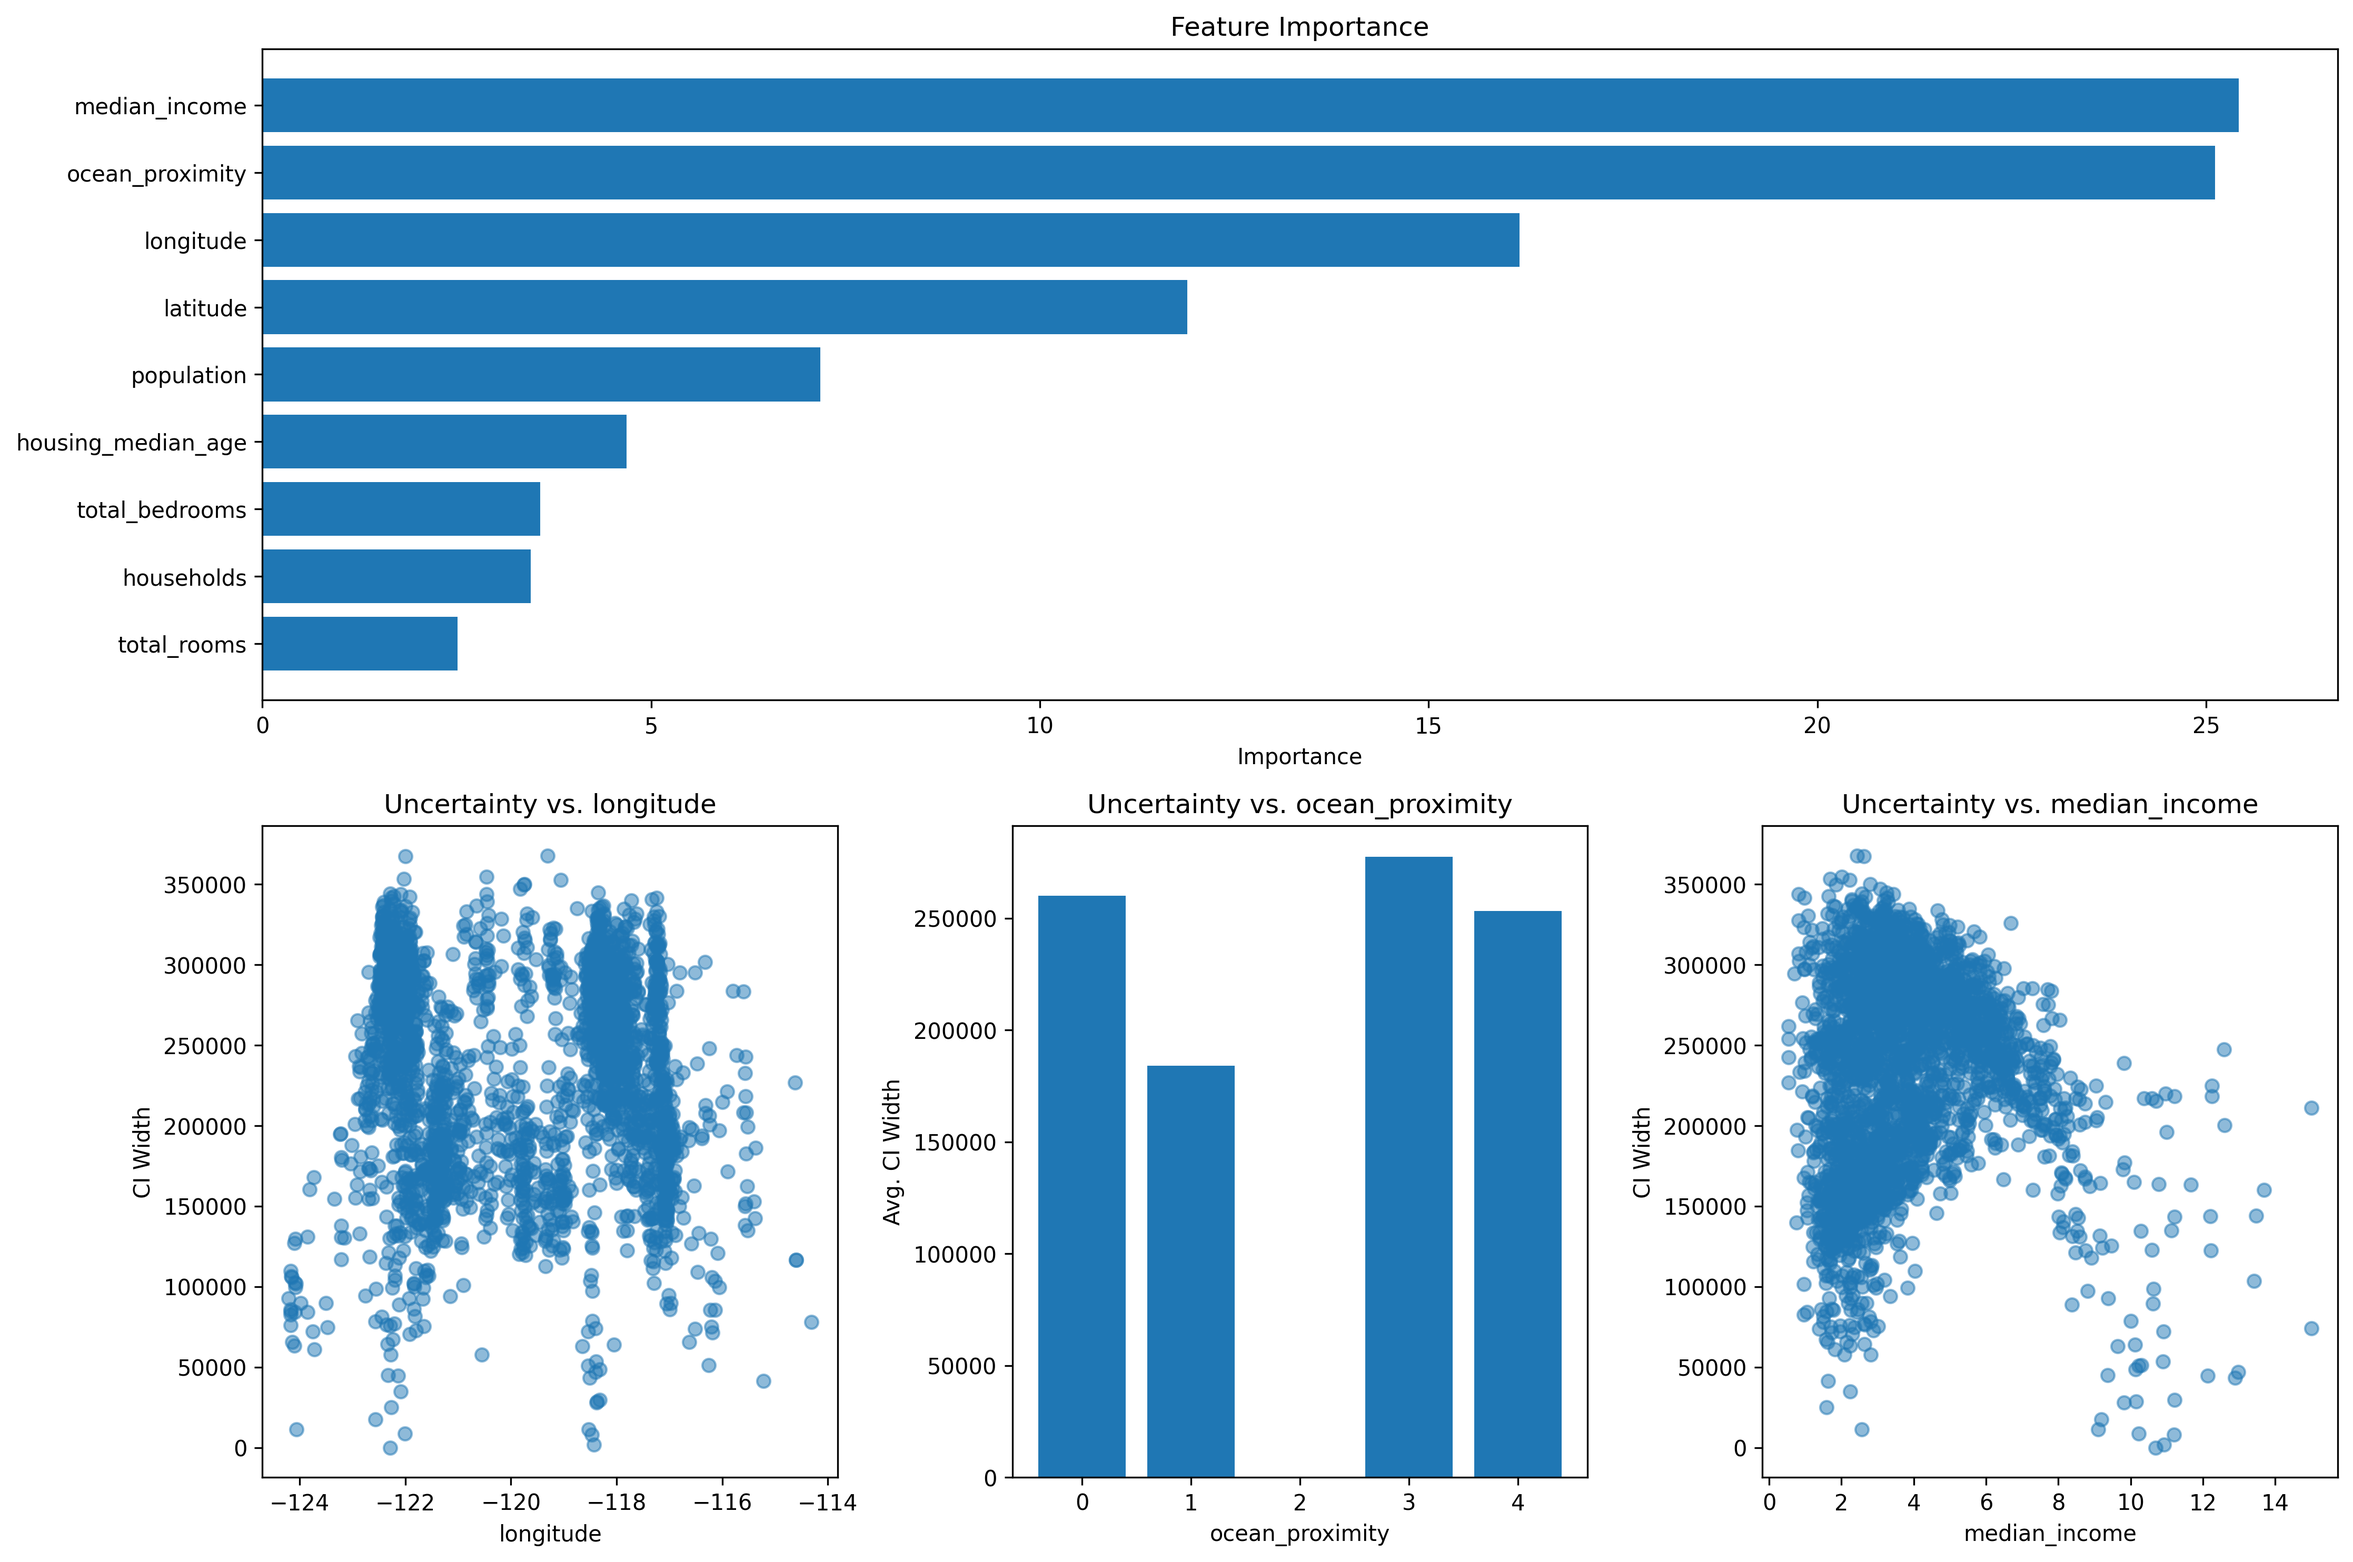
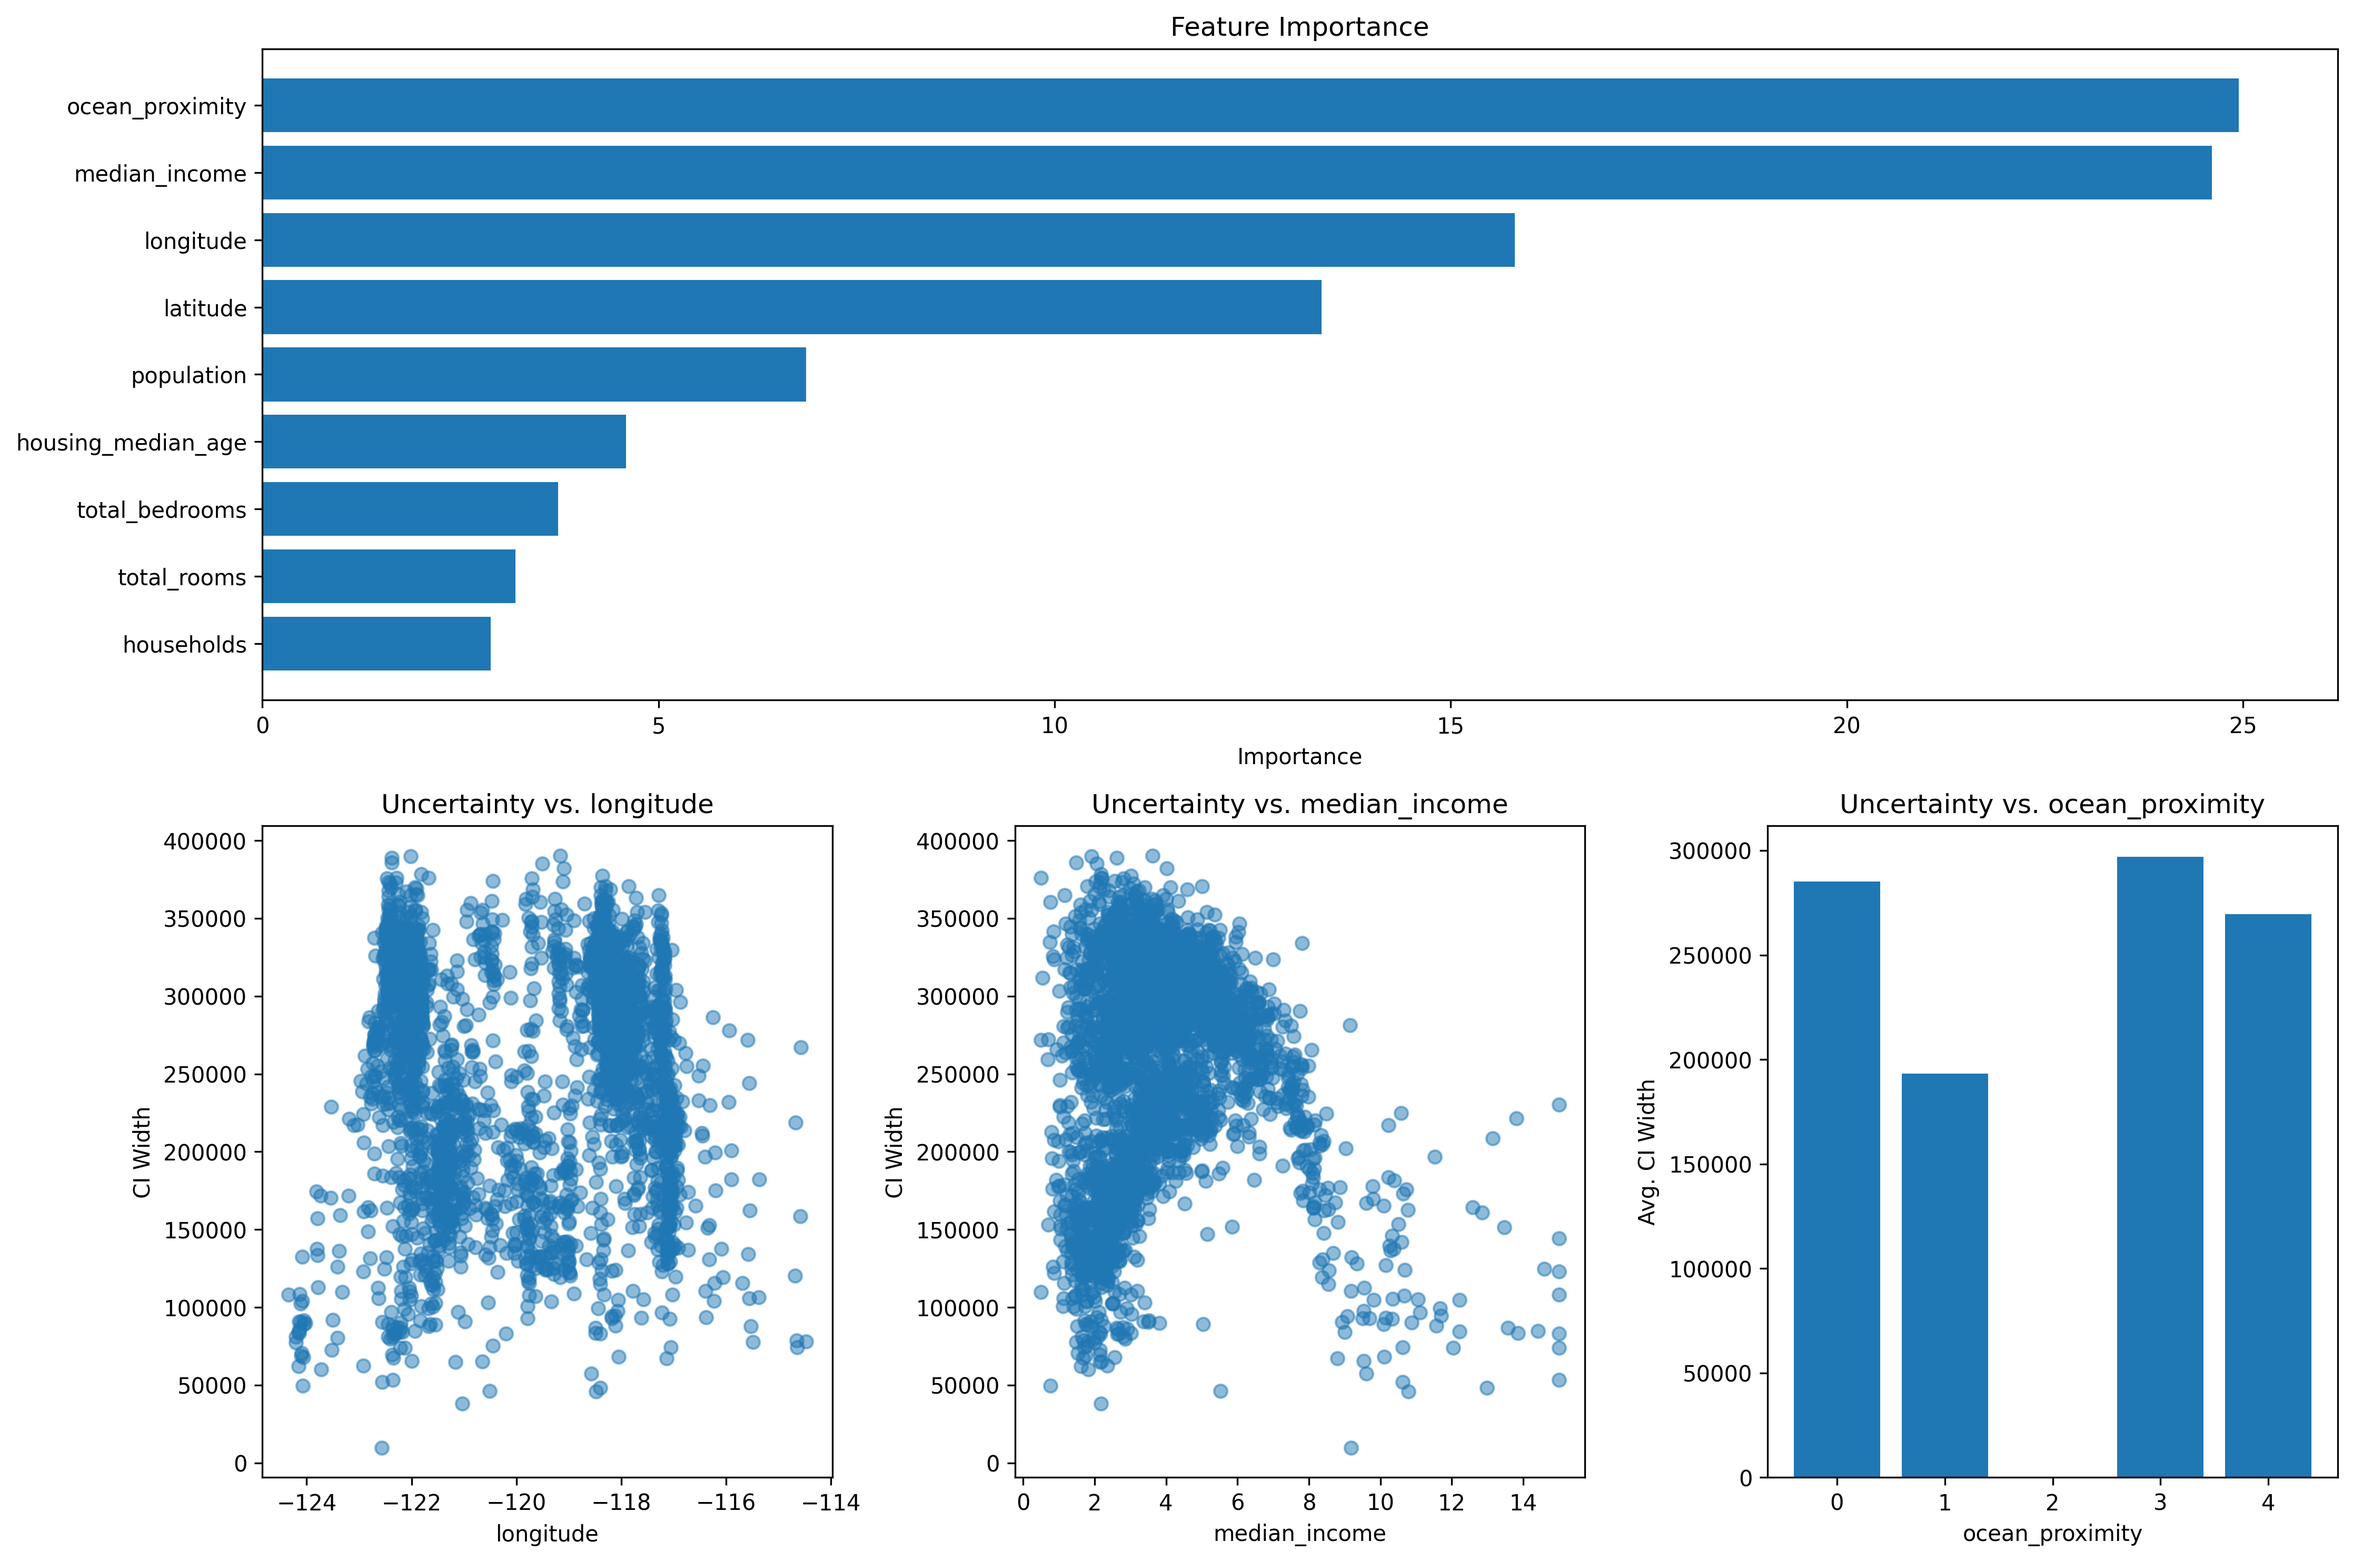
Update examples

diff --git a/prob_gbt/example.py b/prob_gbt/example.py
@@ -33,8 +33,8 @@ def main():
     cat_features = ['ocean_proximity']
 
     # Split the data into train, validation, and test sets
-    X_train, X_temp, y_train, y_temp = train_test_split(X, y, test_size=0.3, random_state=42)
-    X_val, X_test, y_val, y_test = train_test_split(X_temp, y_temp, test_size=0.5, random_state=42)
+    X_train, X_temp, y_train, y_temp = train_test_split(X, y, test_size=0.3, random_state=1234)
+    X_val, X_test, y_val, y_test = train_test_split(X_temp, y_temp, test_size=0.5, random_state=1234)
 
     print(f"Training set: {X_train.shape[0]} samples")
     print(f"Validation set: {X_val.shape[0]} samples")
@@ -43,10 +43,10 @@ def main():
     # Initialize and train the ProbGBT model
     print("\nTraining ProbGBT model...")
     model = ProbGBT(
-        num_quantiles=50,
-        iterations=200,
+        num_quantiles=100,
+        iterations=300,
         subsample=1.0,
-        random_seed=42,
+        random_seed=1234,
         train_separate_models=False
     )
 
@@ -69,7 +69,7 @@ def main():
 
     # Predict confidence intervals
     print("\nPredicting confidence intervals...")
-    lower_bounds, upper_bounds = model.predict_interval(X_test, confidence_level=0.95, method='gmm')
+    lower_bounds, upper_bounds = model.predict_interval(X_test, confidence_level=0.95, method='spline')
     
     # Plot predictions vs actual for a subset of test samples
     print("\nPlotting predictions vs actual values...")
@@ -94,7 +94,7 @@ def main():
     # Plot PDF for a single example
     print("\nPlotting probability density function for a single example...")
     sample_idx = sample_indices[0]
-    pdfs = model.predict_pdf(X_test.iloc[[sample_idx]], method='gmm')
+    pdfs = model.predict_pdf(X_test.iloc[[sample_idx]], method='spline')
     x_values, pdf_values = pdfs[0]
 
     plt.figure(figsize=(10, 6))
@@ -133,7 +133,7 @@ def main():
     
     # Second pass to plot without y-axis limit adjustments
     for i, idx in enumerate(diverse_indices):
-        pdfs = model.predict_pdf(X_test.iloc[[idx]], method='gmm')
+        pdfs = model.predict_pdf(X_test.iloc[[idx]], method='spline')
         x_values, pdf_values = pdfs[0]
         
         axes[i].plot(x_values, pdf_values, label='PDF')
@@ -257,7 +257,7 @@ def main():
     print("Calculating coverage for different confidence levels...")
     for conf_level in tqdm(confidence_levels, desc="Evaluating confidence levels"):
         # Get interval bounds for this confidence level using the same method
-        lower, upper = model.predict_interval(X_test, confidence_level=conf_level, method='gmm')
+        lower, upper = model.predict_interval(X_test, confidence_level=conf_level, method='spline')
         
         # Calculate coverage
         coverage = np.mean((y_test >= lower) & (y_test <= upper))

diff --git a/prob_gbt/prob_gbt.py b/prob_gbt/prob_gbt.py
@@ -21,7 +21,7 @@ class ProbGBT:
     """
     
     def __init__(self, 
-                 num_quantiles=50, 
+                 num_quantiles=100, 
                  iterations=500,
                  learning_rate=None, 
                  depth=None,
